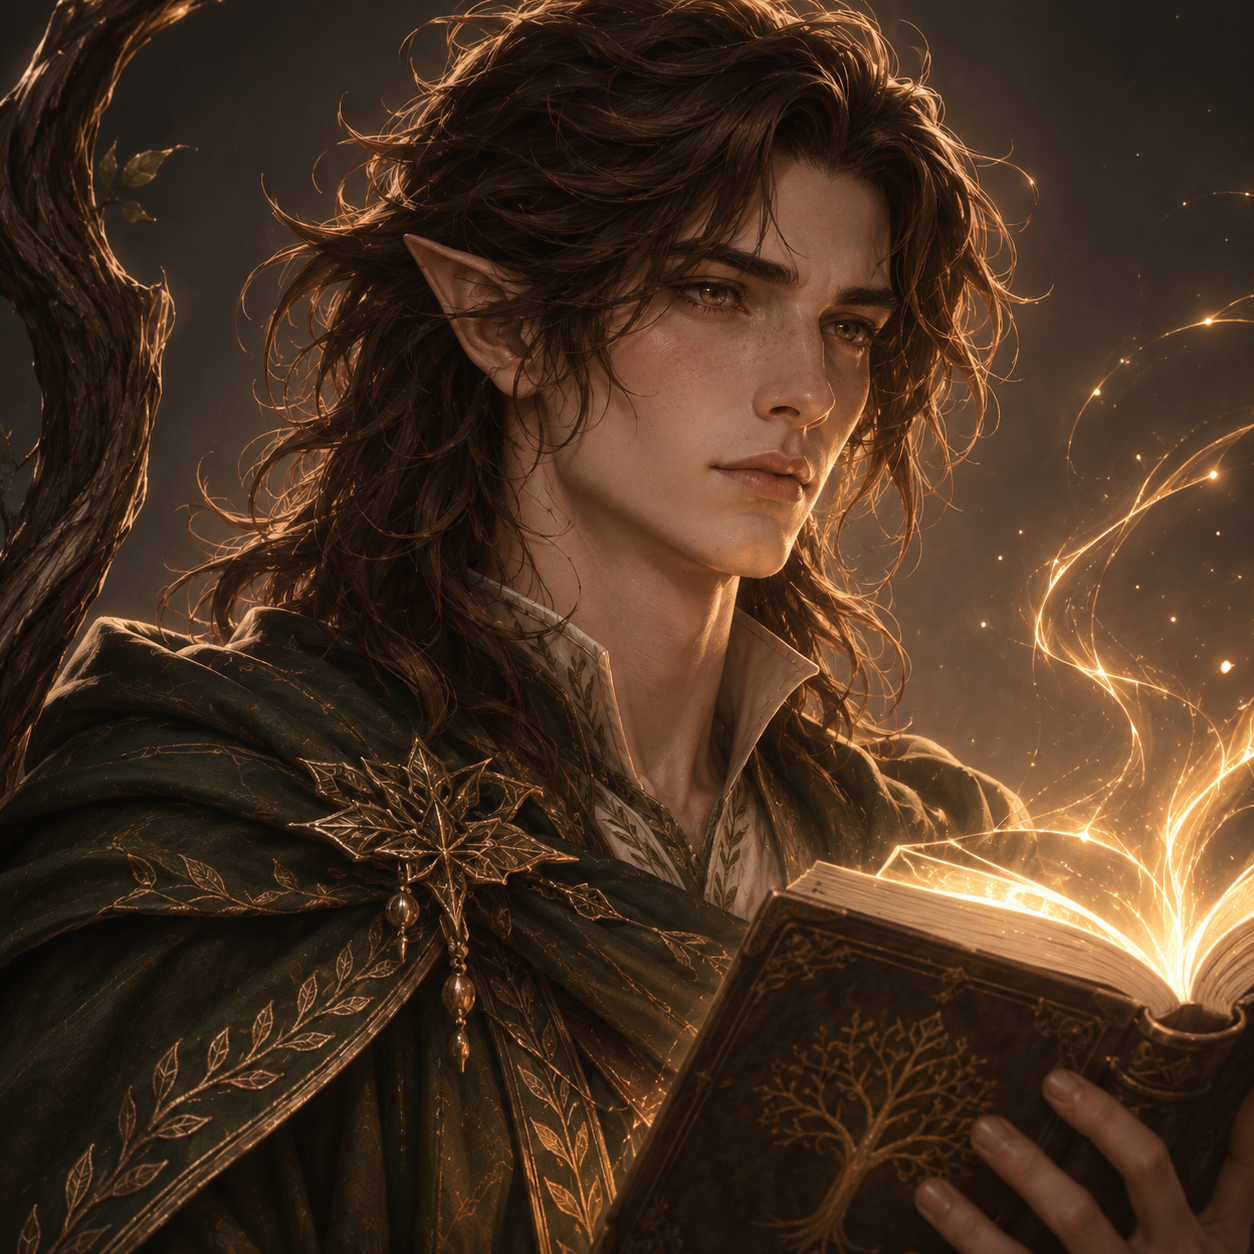
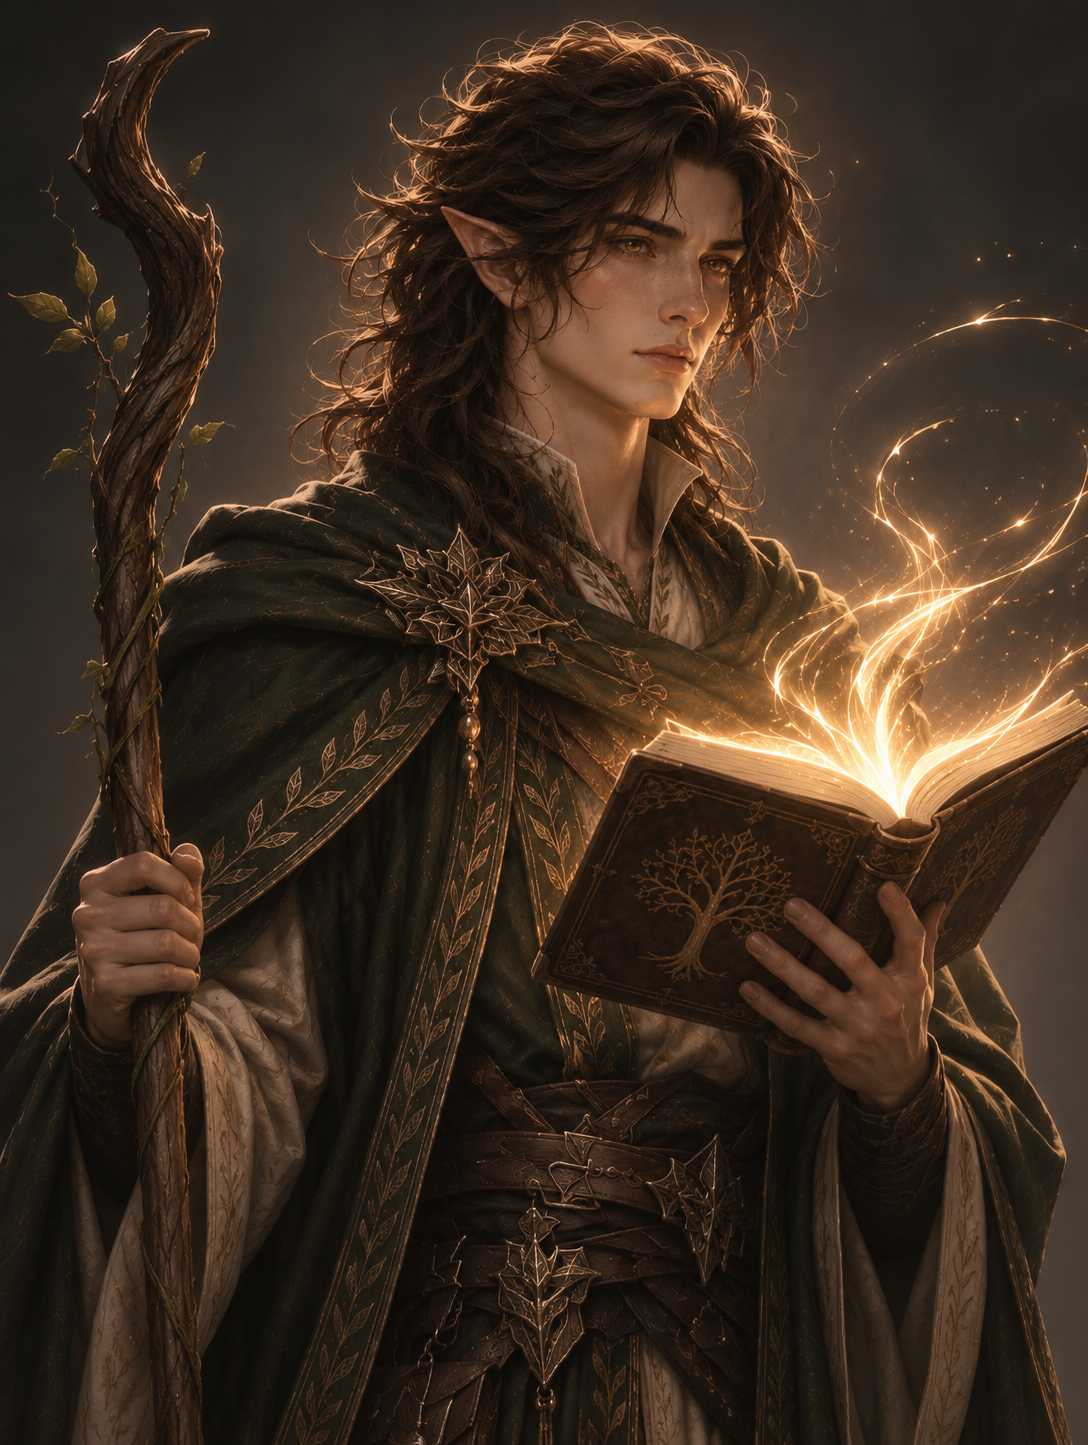
Rework

diff --git a/responsive-scale.css b/responsive-scale.css
@@ -1,16 +1,5 @@
-/* Use the available CSS viewport, respecting browser zoom and user font settings. */
-@media(min-width:1600px){
- html{font-size:clamp(100%,1.05vw,250%)}
- body .page-shell{width:min(88vw,100rem)}
- body .character-card{min-height:clamp(32.5rem,34vw,42rem)}
- body .topbar{gap:1.1rem;padding-block:1.2rem}
- body .nav-link,body .nav-dropdown-item{padding:.7rem .9rem}
- body .npc-directory-grid{gap:1.1rem}
- body .character-portrait-stage{min-height:36rem}
- body .remembered-card{min-height:30rem}
-}
+/* Grimwood finale portrait and memorial presentation. Screen sizing uses the original styles. */
 #grimwood-remembered .remembered-card{margin-bottom:2rem}
 #grimwood-remembered .remembered-copy .btn{margin-top:1rem}
 #grimwood-remembered .remembered-portrait{object-position:center top}
 #grimwood-character-detail .character-portrait-stage img[src*="elior-resurrected"]{object-fit:contain;object-position:center}
-@media(min-width:1000px){#grimwood-character-grid{grid-template-columns:repeat(4,minmax(0,1fr))}#grimwood-character-grid .grimwood-character-card{grid-column:auto}}

diff --git a/index.html b/index.html
@@ -52,7 +52,7 @@
   <link rel="stylesheet" href="grimwood-npcs.css?v=20261101-v45" />
   <link rel="stylesheet" href="serpent.css?v=20261022-covers" />
   <link rel="stylesheet" href="collection.css?v=47" />
-  <link rel="stylesheet" href="responsive-scale.css?v=47" />
+  <link rel="stylesheet" href="responsive-scale.css?v=48" />
 </head>
 <body>
   <div class="world-bg" aria-hidden="true">
@@ -677,7 +677,7 @@
   <script src="npc-archive.js?v=20261101-v45"></script>
   <script src="mystery-character.js?v=20261018-runes"></script>
   <script src="serpent.js?v=20261019-controls2"></script>
-  <script src="script.js?v=20261108-v47"></script>
+  <script src="script.js?v=20261109-v49"></script>
   <script src="grimwood-npcs.js?v=20261108-v47"></script>
   <script src="character-presentation.js?v=20261014-three-four"></script>
   <script src="echoes.js?v=20261014-three-four"></script>

diff --git a/script.js b/script.js
@@ -450,7 +450,7 @@ const GRIMWOOD_REMEMBERED = [
   }
 ];
 
-const ASSET_VERSION = '20261108-finale';
+const ASSET_VERSION = '20261109-elior-portrait';
 const asset = path => `${path}?v=${ASSET_VERSION}`;
 
 const chronicleSelector = document.getElementById('chronicle-selector');
